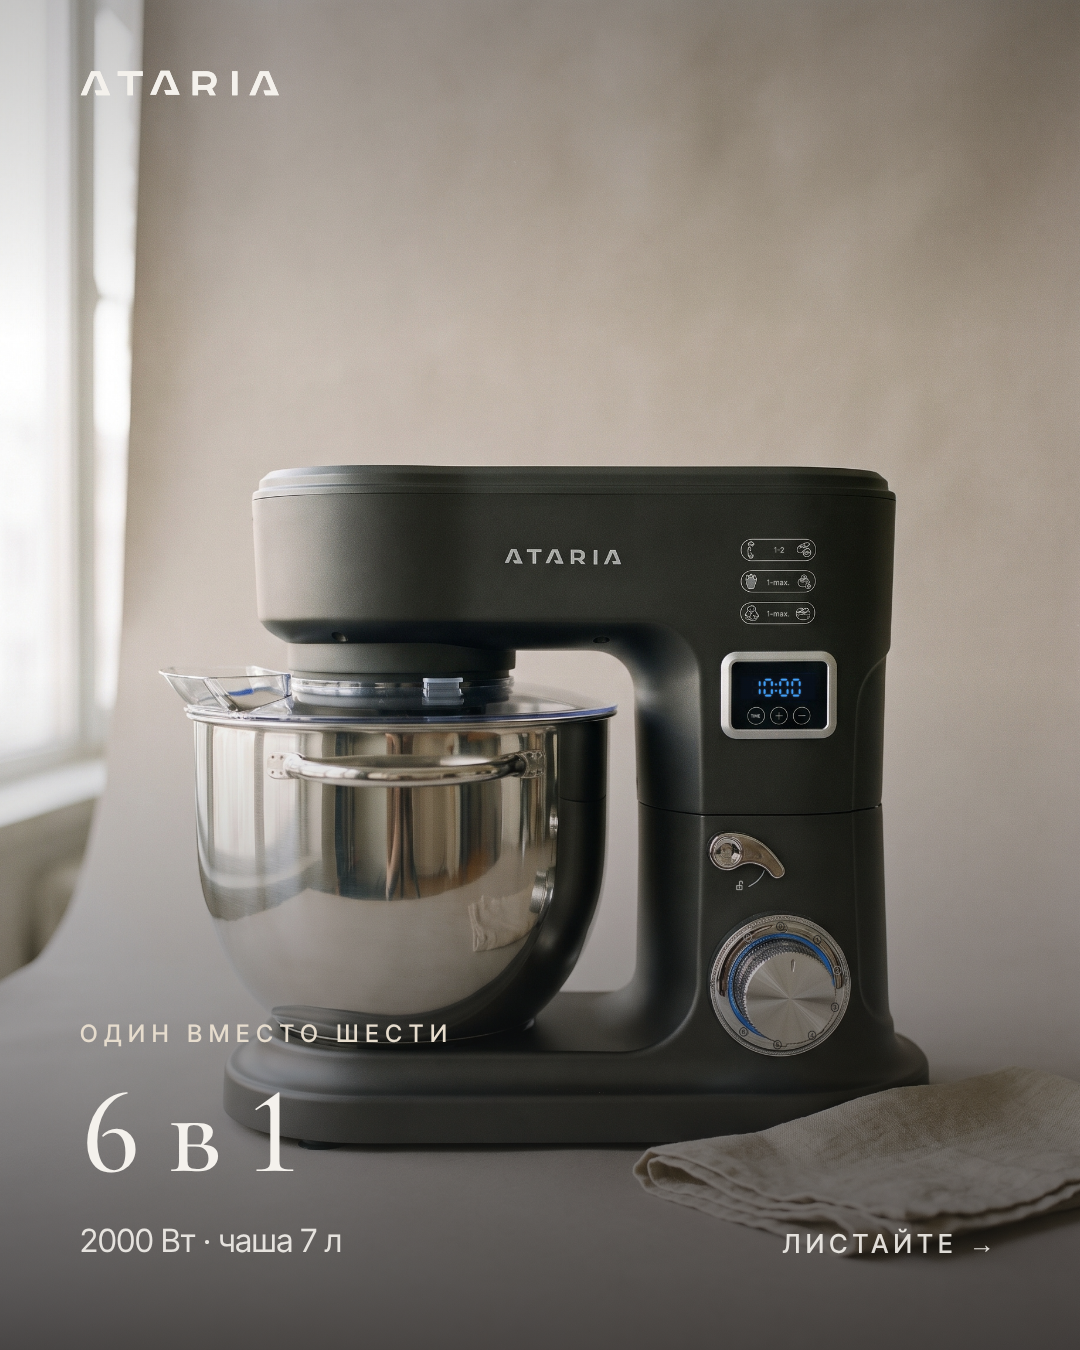
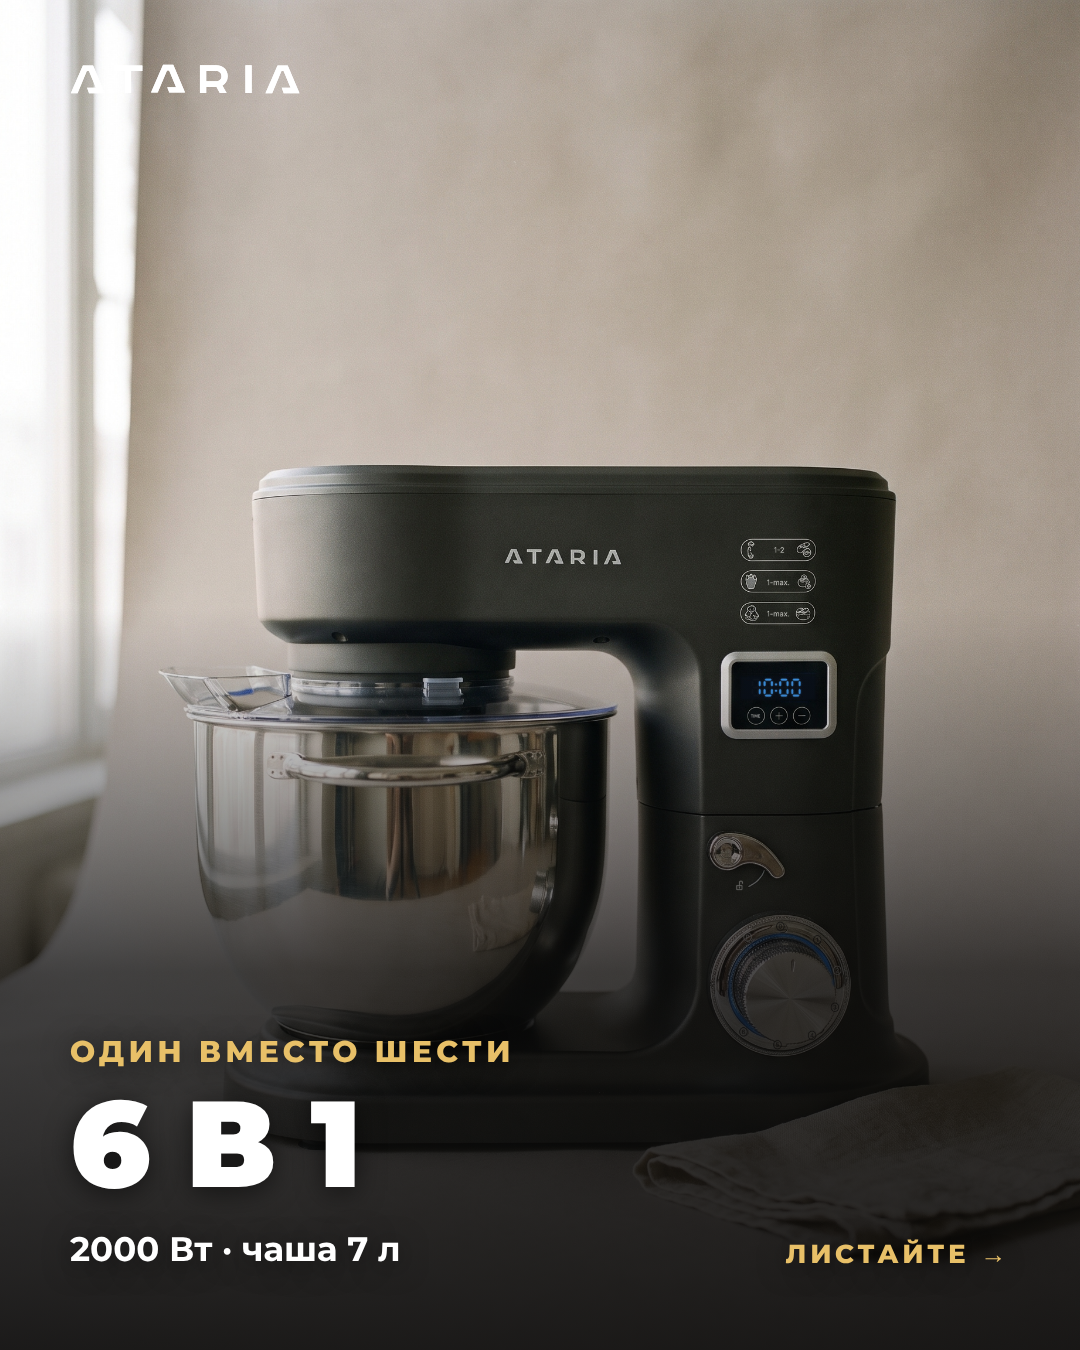
Instagram карусели: текст поверх фото, жирный Montserrat, крупные заголовки
Claude-Session: https://claude.ai/code/session_01JKBBHyD8hBKVpszWv2rPDb

diff --git a/brand/instagram/5_Карусели/_gen_car.py b/brand/instagram/5_Карусели/_gen_car.py
@@ -1,0 +1,53 @@
+import json,os,re
+src=open('gen.py').read()
+exec(src.split('# ---------- Reels')[0])   # CSS, logo, page, jobs
+CSS2=CSS.replace('family=Cormorant','family=Montserrat:wght@600;700;800;900&family=Cormorant')
+globals()['CSS']=CSS2
+G='#E8C068'
+SH='text-shadow:0 4px 28px rgba(0,0,0,.6)'
+def grad(where):
+    return ('linear-gradient(0deg,rgba(12,11,10,.92) 0%,rgba(12,11,10,.75) 28%,rgba(12,11,10,0) 55%)' if where=='b'
+            else 'linear-gradient(180deg,rgba(12,11,10,.9) 0%,rgba(12,11,10,.7) 26%,rgba(12,11,10,0) 52%)')
+def car_cover(name,ph,kicker,title,sub,out,pos='50% 50%'):
+    body=f'''<img class="ph" src="photos/{ph}.jpg" style="object-position:{pos}"><div style="position:absolute;inset:0;background:{grad('b')}"></div>
+<div style="position:absolute;top:64px;left:70px">{logo('#fff',30)}</div>
+<div style="position:absolute;left:70px;right:70px;bottom:80px;color:#fff;font-family:Montserrat;{SH}">
+<div style="font-weight:800;font-size:30px;letter-spacing:.14em;text-transform:uppercase;color:{G}">{kicker}</div>
+<div style="font-weight:900;font-size:122px;line-height:.92;text-transform:uppercase;margin-top:18px;letter-spacing:-1px">{title}</div>
+<div style="display:flex;justify-content:space-between;align-items:end;margin-top:28px;font-size:34px;font-weight:700"><span>{sub}</span><span style="font-size:26px;font-weight:800;letter-spacing:.14em;color:{G}">ЛИСТАЙТЕ →</span></div></div>'''
+    page(name,1080,1350,body,out)
+def car_slide(name,ph,n,total,title,text,out,where='b',pos='50% 50%'):
+    box=('bottom:80px' if where=='b' else 'top:150px')
+    body=f'''<img class="ph" src="photos/{ph}.jpg" style="object-position:{pos}"><div style="position:absolute;inset:0;background:{grad(where)}"></div>
+<div style="position:absolute;top:64px;left:70px;right:70px;display:flex;justify-content:space-between;align-items:center;font-family:Montserrat;font-weight:800;font-size:30px;color:{G};{SH}">{logo('#fff',26)}<span>{n:02d} / {total:02d}</span></div>
+<div style="position:absolute;left:70px;right:70px;{box};color:#fff;font-family:Montserrat;{SH}">
+<div style="font-weight:900;font-size:96px;line-height:.95;text-transform:uppercase;letter-spacing:-1px">{title}</div>
+<div style="font-weight:700;font-size:38px;line-height:1.3;margin-top:22px;max-width:900px">{text}</div></div>'''
+    page(name,1080,1350,body,out)
+def car_cta(name,out,h=1350,ph='m06_low'):
+    body=f'''<img class="ph" src="photos/{ph}.jpg"><div style="position:absolute;inset:0;background:rgba(12,11,10,.72)"></div>
+<div style="position:absolute;top:300px;left:0;right:0;display:flex;justify-content:center">{logo('#fff',64)}</div>
+<div style="position:absolute;top:420px;left:0;right:0;text-align:center;font-family:Montserrat;font-weight:900;font-size:76px;line-height:1;color:#fff;text-transform:uppercase">Кухонный<br>комбайн <span style="color:{G}">6 в 1</span></div>
+<div style="position:absolute;left:150px;right:150px;top:690px;font-family:Montserrat;font-weight:800;font-size:44px;text-align:center;color:#fff">
+<div style="background:{G};color:#141210;border-radius:60px;padding:22px 0">Kaspi · рассрочка</div>
+<div style="border:3px solid {G};border-radius:60px;padding:19px 0;margin-top:26px">До 2 лет гарантии</div>
+<div style="border:3px solid {G};border-radius:60px;padding:19px 0;margin-top:26px">Ссылка в профиле</div></div>'''
+    page(name,1080,h,body,out)
+c1=[('m02_open','Тестомес','Месит тесто для бешбармака, мантов и баурсаков сам.','b'),
+('m09_grinder','Мясорубка','Свежий фарш для мантов и котлет. Ставится за секунды.','t'),
+('m10_slicer','Овощерезка','Нарезка и тёрка. 3 стальных барабана.','t'),
+('m11_sheet_roller','Тестораскатка','Ровный тонкий лист. 8 положений толщины.','t'),
+('m11b_noodles','Лапшерезка','Лапша для лагмана — без скалки и ножа.','t'),
+('m12_blender','Блендер','Стекло 1,5 л: смузи, соусы, супы-пюре.','t')]
+car_cover('c1_00','m01_front','Один вместо шести','6 в 1','2000 Вт · чаша 7 л','5_Карусели/1_Карусель_6_в_1/01_cover.png')
+for i,(ph,t,tx,w) in enumerate(c1,1): car_slide(f'c1_{i:02d}',ph,i,6,t,tx,f'5_Карусели/1_Карусель_6_в_1/{i+1:02d}_{ph}.png',w)
+car_cta('c1_cta','5_Карусели/1_Карусель_6_в_1/08_cta.png')
+c2=[('m07_display','Таймер на корпусе','Синие цифры, кнопки TIME + −. Подсказки скоростей прямо над ними.','b'),
+('m02_open','Голова поднимается','Насадки меняются за секунды, чашу легко снять.','b'),
+('m08_attachments','Металл, не пластик','Крюк, лопатка и венчик — литой металл и сталь.','b'),
+('m04_back','Красив со всех сторон','Матовый титаново-серый корпус — сзади так же чисто.','t'),
+('m05_top','Чаша 7 литров','Тесто на большую семью и гостей.','b')]
+car_cover('c2_00','m06_low','Детали','Сделан,<br>чтобы стоять<br>на виду','Матовый титановый корпус','5_Карусели/2_Карусель_Детали/01_cover.png')
+for i,(ph,t,tx,w) in enumerate(c2,1): car_slide(f'c2_{i:02d}',ph,i,5,t,tx,f'5_Карусели/2_Карусель_Детали/{i+1:02d}_{ph}.png',w)
+car_cta('c2_cta','5_Карусели/2_Карусель_Детали/07_cta.png')
+json.dump(jobs,open('jobs.json','w'),indent=0); print(len(jobs))
